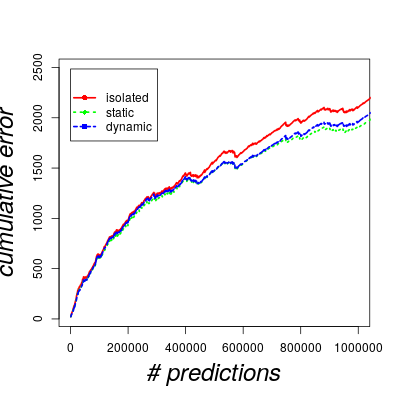
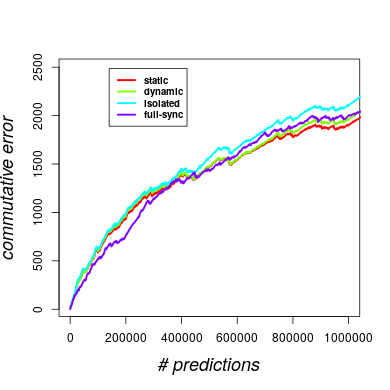
updates

Changed region(s): [[0.0615, 0.1231, 0.9538, 0.9846], [0.1846, 0.1538, 0.9538, 0.8], [0.0, 0.2769, 0.0308, 0.7077]]

diff --git a/evaluation.tex b/evaluation.tex
@@ -1,9 +1,9 @@
 \section{EMPIRICAL EVALUATION}
 \label{sec:results}
-In this section, we evaluate the performance of our system using real-world event streams provided by the datAcron project in the context of maritime domains. The used event streams describe trajectory critical points (i.e., synopses) of moving vessels, which are derived from raw AIS messages as was  described in \cite{synopses1}. In particular, for our evaluation we used a data set of synopses contains $4,684,444$ critical points of $5055$ vessels sailing in the Atlantic Ocean during the period from 1 October 2015 to 31 March 2016. We use it to generate a simulated stream of event tuples  $(id,type,timestamp,longitude,latitude,annotation,speed,heading)$,  where $type \in \Sigma$ and $\Sigma=\{VerySlow,Slow,Moving,Sailing,Stopping\}$ that is based on the  vessel speed, and $annotation$ is an attribute to encode the trajectory movement events such as speed change, slow motion, and gap in reporting. In our experiments, we monitor a pattern $\mathcal{P}=Sailing$ that detects when the vessel under way (sailing) with order $m=2$.
+In this section, we evaluate the performance of our system using real-world event streams provided by the datAcron project in the context of maritime domains. The used event streams describe trajectory critical points (i.e., synopses) of moving vessels, which are derived from raw AIS messages as was  described in \cite{synopses1}. In particular, for our evaluation we used a data set of synopses contains $4,684,444$ critical points of $5055$ vessels sailing in the Atlantic Ocean during the period from 1 October 2015 to 31 March 2016. We use it to generate a simulated stream of event tuples  $(id,type,timestamp,longitude,latitude,annotation,speed,heading)$,  where $type \in \Sigma$ and $\Sigma=\{VerySlow,Slow,Moving,Sailing,Stopping\}$ that is based on the  vessel speed, and $annotation$ is an attribute to encode the trajectory movement events such as speed change, slow motion, and gap in reporting. In our experiments, we monitor a pattern $\mathcal{P}=Sailing$ that detects when the vessel under way (sailing).
 
 
-\subsubsection*{Experimental setup} We ran our experiments on single-node standalone Flink cluster deployed on a server (Ubuntu 17.04) with Intel(R) Core(TM) i7-7700 CPU @ 3.60GHz × 8 processors and 32GB RAM. We used Apache Flink v1.3.2 and Apache Kafka v0.10.2.1 for our tests.
+\subsubsection*{Experimental setup} We ran our experiments on single-node standalone Flink cluster deployed on a server (Ubuntu 17.04) with Intel(R) Core(TM) i7-7700 CPU @ 3.60GHz X 8 processors and 32GB RAM. We used Apache Flink v1.3.2 and Apache Kafka v0.10.2.1 for our tests.
 
 
 \subsubsection*{Evaluation criteria} Our goal is to evaluate our distributed pattern prediction based on enabling the synchronization of PMC models between the predictors against the isolated ones (i.e., without exchanging information), we compare the predictive performance in terms of :
@@ -16,38 +16,54 @@ In this section, we evaluate the performance of our system using real-world even
 \item $\mathit{recall}$ that measures the fraction of actual full matches of the defined pattern does the model predicate at least once in previous prediction report
 
 \end{enumerate*} 
-Moreover, we study the communication cost by measuring the $\mathit{cumulative\ communication}$ that captures the number of  synchronization related messages, which is introduced by employing the static or dynamic synchronization schemes of the distributed online learning protocol. 
+Moreover, we study the communication cost by measuring the $\mathit{cumulative\ communication}$ that captures the number of  synchronization related messages, which is introduced by employing the static or dynamic synchronization schemes of the distributed online learning protocol. In next, we present the experimental results for the for the pattern  $\mathcal{P}=Sailing$ with $m=2$, batch size $b=100$,  variance threshold $\Delta=2$, and PMC prediction threshold $\theta_{fc}=80\%$.
 
-\subsubsection*{Experimental results} Figure ~\ref{fig:precsions} depicts the precision scores 
-(i.e., average precision of predictors)  of all approaches, namely, isolated without synchronization, continuous synchronization, static (periodic), and our proposed approach based on the dynamic synchronization scheme. While Figure ~\ref{fig:error} shows the average cumulative error per predictor.       
+\begin{figure}[]
+	
+	\includegraphics[width=.5\textwidth]{figures/precision.png}
+	
+	\caption{Precision scores.}
+	\label{fig:precsions}
+\end{figure}
+
+\subsubsection*{Experimental results} Figure ~\ref{fig:precsions} depicts the precision scores (i.e., average precision of prediction model per vessel)  of all approaches, namely, isolated without synchronization, continuous synchronization, static (periodic), and our proposed approach based on the dynamic synchronization scheme. While Figure ~\ref{fig:error} shows the average cumulative error per predictor.       
+
 
 
 
 \begin{figure}[]
-	\begin{centering}
-		\subfloat[Precision scores]{
-			\includegraphics[width=.5\textwidth]{figures/precisions1.png}
-			\label{fig:precsions}
-		}
-		\hfill
-		\subfloat[Cumulative error]{
-			\includegraphics[width=.5\textwidth]{figures/error.png}
-			\label{fig:error}
-		}
-		
-		%\hfill
-		\caption{Average precision and commutative error of predictors for $\mathcal{P}=Sailing$ with $m=2$, $b=100$,  $\Delta=2$, and $\theta_{fc}=80\%$.}
-		\label{fig:error_precsions}
-	\end{centering}
+	
+	\includegraphics[width=.5\textwidth]{figures/error.png}
+	
+\caption{Commutative error.}
+\label{fig:error}
 \end{figure}
 
+\par In Table ~\ref{tab:recall}, we present the statistics of  recall results for the different approaches. It can be seen 
 
-\par In Figure ~\ref{fig:recall}, we present the results in terms of recall for the different approaches. it can be seen 
 
-\begin{figure}[ht!]
+\begin{figure}[]
 	
-	\includegraphics[width=.5\textwidth]{figures/recall.png}
+	\includegraphics[width=.5\textwidth]{figures/communication.png}
 	
-	\caption{Recall for each approach over $\mathcal{P}=Sailing$ with $m=2$, $b=100$,  $\Delta=2$, and $\theta_{fc}=80\%$.}
-	\label{fig:recall}
+	\caption{Commutative communication.}
+	\label{fig:comm}
 \end{figure}
+\begin{table}[]
+	\caption{Recall results.}
+	\label{tab:recall}
+	\begin{tabular}{lll}
+		\toprule
+		Approach &Mean&Max\\
+		\midrule
+		isolated & .1948  & 0.23 \\
+		static & .1976  &  0.23 \\
+		dynamic & .1974  & 0.23 \\
+		full-sync & .1979  & 0.33 \\
+		\bottomrule
+	\end{tabular}
+\end{table}
+
+
+
+Figure ~\ref{fig:comm} provides the accumulated communication complexity.

diff --git a/system.tex b/system.tex
@@ -71,7 +71,7 @@ As an example, see Figure \ref{fig:mctcc1}, which depicts the PMC of order 1 for
 \label{fig:mctcc1}
 }
 %\hfill
-\caption{DFA and PMC for $\mathcal{P}=a ; c ; c$,  $\Sigma=\{a,b,c\}$ and $m=1$.}
+\caption{DFA and PMC for $\mathcal{P}=a ; c ; c$,  $\Sigma=\{a,b,c\}$, and order $m=1$  \cite{alevizos2017event}.}
 \label{fig:dfa_mc_example}
 \end{centering}
 \end{figure}
@@ -105,7 +105,7 @@ and the distribution, along with the forecast interval, for state $1$ are shown 
 \label{fig:wt1}
 }
 \caption{Example of how forecasts are produced. 
-$\mathcal{P}=a ; b ; b ; b$, $\Sigma=\{a,b\}$, $m=1$, $\theta_{\mathit{fc}}=0.5$.}
+$\mathcal{P}=a ; b ; b ; b$, $\Sigma=\{a,b\}$, $m=1$, $\theta_{\mathit{fc}}=0.5$      \cite{alevizos2017event}.}
 \label{fig:wtdfas}
 \end{centering}
 \end{figure}

diff --git a/conclusion.tex b/conclusion.tex
@@ -1,0 +1,4 @@
+
+\section{CONCLUSION}
+\label{sec:conclusion}
+Lorem ipsum dolor sit amet, consectetur adipiscing elit. Morbi pretium dapibus erat, sollicitudin vehicula ante sagittis a. Aenean in maximus felis, a malesuada dolor. Sed in lectus erat. Sed sollicitudin pharetra condimentum. Sed pellentesque sem sit amet dui aliquet, semper pellentesque ante interdum. Fusce fringilla arcu nunc, ut lacinia ipsum sollicitudin quis. Integer id libero felis. Quisque ullamcorper vitae orci ut malesuada. Nullam molestie justo eu felis dignissim consectetur vel at dui. Ut quis felis pulvinar, consequat ipsum sit amet, malesuada magna. Sed elit turpis, ultricies sed dapibus eu, commodo sit amet ex. Aenean at maximus risus, sit amet iaculis leo. Phasellus id ornare urna, imperdiet mattis ante.

diff --git a/bmda-body.tex b/bmda-body.tex
@@ -5,6 +5,4 @@
 \input{system}
 \input{implementaion}
 \input{evaluation}
-
-\section{CONCLUSION}
-\label{sec:conclusion}
+\input{conclusion}
